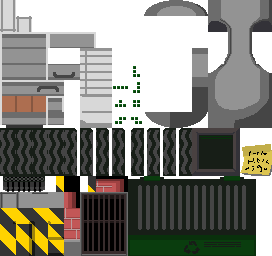
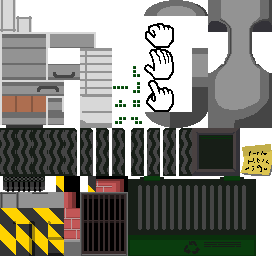
added a cursor

Changed region(s): [[0.5294, 0.0938, 0.6471, 0.4375]]

diff --git a/internal/state/game-state.go b/internal/state/game-state.go
@@ -96,8 +96,17 @@ func (s *gameState) Load(done chan struct{}) {
 		achFam.StickyNote.Rect = pixel.R(0, 0, 32, 32)
 		constants.AchievementFamilies[i] = achFam
 		newachFam := constants.AchievementFamilies[i]
-		myecs.Manager.NewEntity().AddComponent(myecs.Object, constants.AchievementFamilies[i].StickyNote).AddComponent(myecs.Drawable, data.TinyNote).
-			AddComponent(myecs.ViewPort, data.FactoryViewport).AddComponent(myecs.Input, gameInput).AddComponent(myecs.Click, data.NewFn(ClickAchievement(&newachFam)))
+		myecs.Manager.NewEntity().AddComponent(myecs.Object, constants.AchievementFamilies[i].StickyNote).
+			AddComponent(myecs.Drawable, data.TinyNote).
+			AddComponent(myecs.ViewPort, data.FactoryViewport).
+			AddComponent(myecs.Input, gameInput).
+			AddComponent(myecs.Click, data.NewFn(ClickAchievement(&newachFam))).
+			AddComponent(myecs.Update, data.NewFn(func() {
+				if newachFam.StickyNote.PointInside(data.FactoryViewport.Projected(gameInput.World)) &&
+					newachFam.Achieved() {
+					data.HandState = 1
+				}
+			}))
 	}
 
 	pauseBtnObj := object.New()
@@ -109,6 +118,7 @@ func (s *gameState) Load(done chan struct{}) {
 		AddComponent(myecs.Drawable, data.PauseButSprs).
 		AddComponent(myecs.Update, data.NewFn(func() {
 			if pauseBtnObj.PointInside(data.FactoryViewport.Projected(gameInput.World)) {
+				data.HandState = 1
 				if gameInput.Get("click").Pressed() {
 					data.PauseButSprs[1].Offset.Y = -3.
 				} else {
@@ -133,6 +143,7 @@ func (s *gameState) Load(done chan struct{}) {
 		AddComponent(myecs.Drawable, data.RestartButSprs).
 		AddComponent(myecs.Update, data.NewFn(func() {
 			if restartBtnObj.PointInside(data.FactoryViewport.Projected(gameInput.World)) {
+				data.HandState = 1
 				if gameInput.Get("click").Pressed() {
 					data.RestartButSprs[1].Offset.Y = -3.
 				} else {
@@ -154,6 +165,7 @@ func (s *gameState) Load(done chan struct{}) {
 
 	s.UpdateViews()
 	sfx.MusicPlayer.PlayMusic("song")
+	data.HandObj = object.New()
 	reanimator.SetFrameRate(16)
 	reanimator.Reset()
 	s.sfxTimer = timing.New(rand.Float64()*20. + 5.)
@@ -167,6 +179,14 @@ func (s *gameState) Update(win *pixelgl.Window) {
 		s.UpdateViews()
 	}
 	gameInput.Update(win, viewport.MainCamera.Mat)
+	obj := object.New()
+	obj.Pos = gameInput.World
+	spr := data.HandPoint
+
+	myecs.Manager.NewEntity().
+		AddComponent(myecs.Object, obj).
+		AddComponent(myecs.Drawable, spr).
+		AddComponent(myecs.Temp, myecs.ClearFlag(true))
 	if !data.PauseMenu && data.StickyOpen && gameInput.Get("click").JustPressed() {
 		if !data.StickyObj.PointInside(data.StickyViewport.Projected(gameInput.World)) {
 			CloseSticky()
@@ -334,6 +354,8 @@ func (s *gameState) Update(win *pixelgl.Window) {
 		}
 		s.sfxTimer = timing.New(rand.Float64()*20. + 5.)
 	}
+	data.HandObj.Pos = gameInput.World
+	data.HandObj.Update()
 	UpdateAchievements()
 }
 
@@ -380,6 +402,24 @@ func (s *gameState) Draw(win *pixelgl.Window) {
 		systems.DrawMenuSystem(data.StickyViewport)
 		data.StickyViewport.Canvas.Draw(win, data.StickyViewport.Mat)
 	}
+	sprH := data.HandPoint
+	if data.DraggingPiece != nil {
+		sprH = data.HandGrab
+	} else {
+		switch data.HandState {
+		case 0:
+			sprH = data.HandOpen
+		case 1:
+			sprH = data.HandPoint
+		case 2:
+			sprH = data.HandGrab
+		}
+	}
+	if sprH != nil {
+		img.Batchers[constants.FactoryKey].DrawSpriteColor(sprH.Key, data.HandObj.Mat.Moved(sprH.Offset), sprH.Color)
+		img.Batchers[constants.FactoryKey].Draw(win)
+	}
+	data.HandState = 0
 	systems.TemporarySystem()
 }
 

diff --git a/internal/loading/img.go b/internal/loading/img.go
@@ -483,4 +483,9 @@ func LoadImg() {
 	data.TVShapes = append(data.TVShapes, img.NewOffsetSprite("L", constants.FactoryKey, pixel.V(2.*data.MSize, 0.)))
 	data.TVShapes = append(data.TVShapes, img.NewOffsetSprite("T", constants.FactoryKey, pixel.V(4.*data.MSize, 0.)))
 	data.TVShapes = append(data.TVShapes, img.NewOffsetSprite("I", constants.FactoryKey, pixel.V(6.*data.MSize, 0.)))
+
+	// cursor
+	data.HandPoint = img.NewOffsetSprite("hand_point", constants.FactoryKey, pixel.ZV)
+	data.HandOpen = img.NewOffsetSprite("hand_open", constants.FactoryKey, pixel.ZV)
+	data.HandGrab = img.NewOffsetSprite("hand_grab", constants.FactoryKey, pixel.ZV)
 }

diff --git a/internal/data/state.go b/internal/data/state.go
@@ -23,6 +23,12 @@ var (
 	PauseMenu  bool
 	StickyOpen bool
 	TinyNote   *img.Sprite
+
+	HandState int
+	HandPoint *img.Sprite
+	HandOpen  *img.Sprite
+	HandGrab  *img.Sprite
+	HandObj   *object.Object
 )
 
 type StickyMsg struct {

diff --git a/cmd/main.go b/cmd/main.go
@@ -30,6 +30,7 @@ func run() {
 	}
 
 	win.SetSmooth(false)
+	win.SetCursorVisible(false)
 
 	viewport.MainCamera = viewport.New(win.Canvas())
 	viewport.MainCamera.SetRect(pixel.R(0, 0, 1600, 900))
